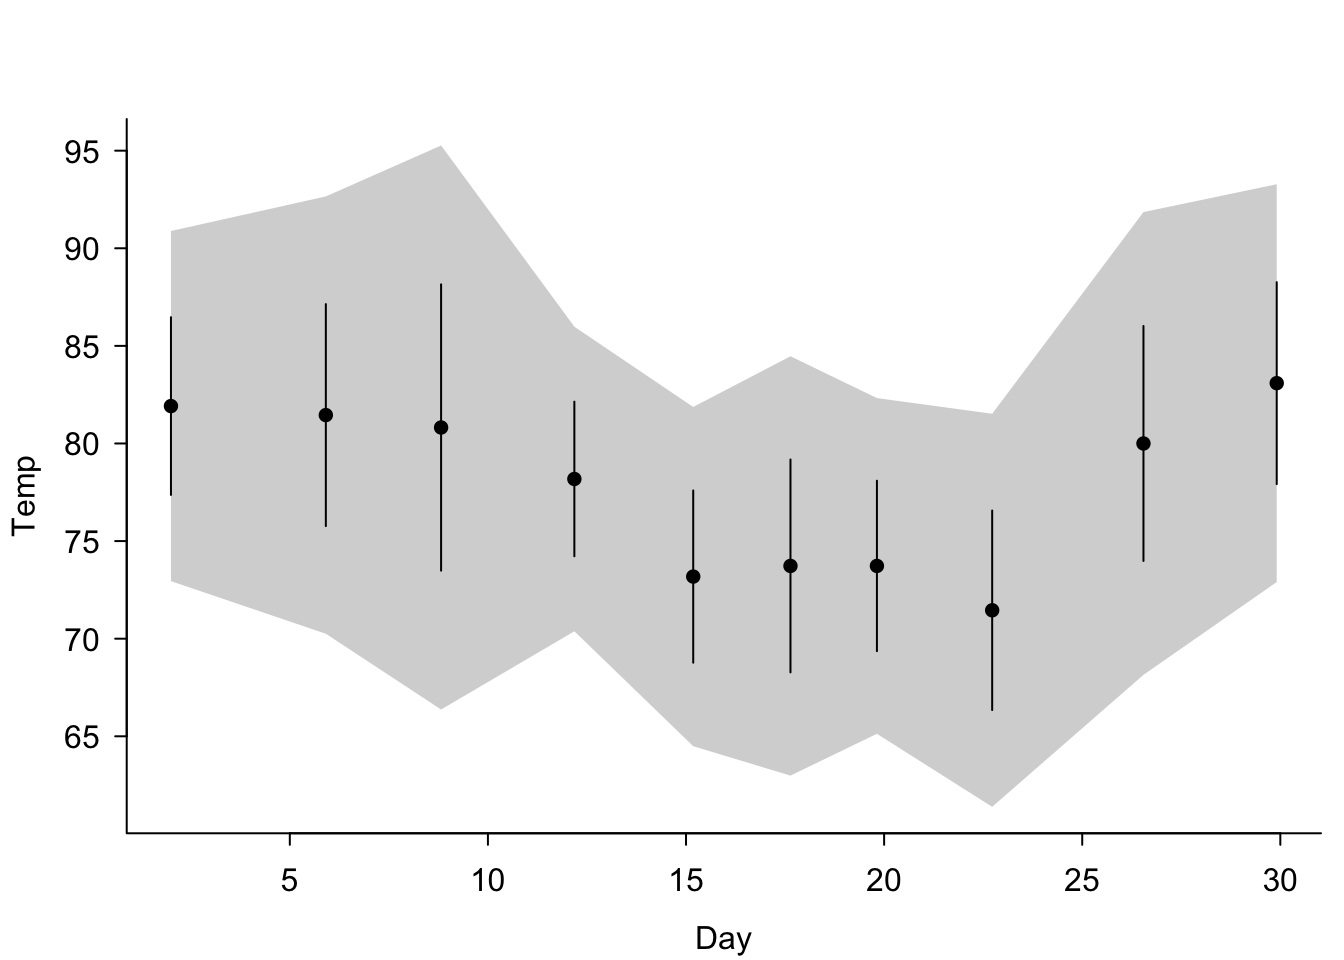
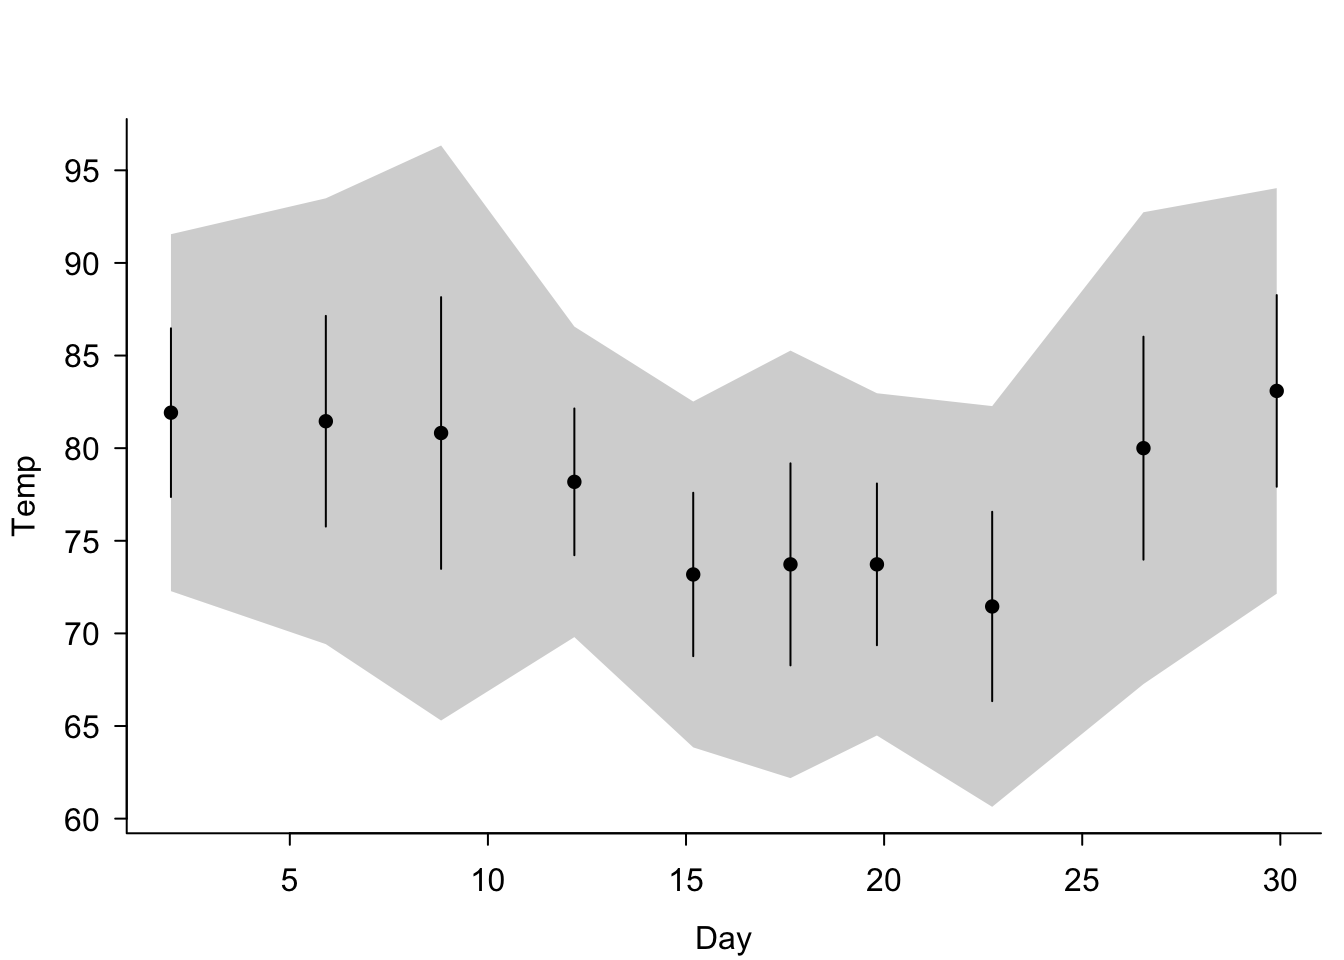
ensure data input consitency with dbreg

diff --git a/docs/man/dbbinsreg.html b/docs/man/dbbinsreg.html
@@ -371,6 +371,8 @@ window.Quarto = {
 <h3 class="anchored" data-anchor-id="usage">Usage</h3>
 <pre><code class="language-R">dbbinsreg(
   fml,
+  conn = NULL,
+  table = NULL,
   data = NULL,
   path = NULL,
   points = c(0, 0),
@@ -385,7 +387,6 @@ window.Quarto = {
   level = 0.95,
   nsims = 500,
   strategy = "auto",
-  conn = NULL,
   plot = TRUE,
   verbose = getOption("dbreg.verbose", FALSE),
   dots = NULL
@@ -419,18 +420,29 @@ window.Quarto = {
 </tr>
 <tr>
 <td style="white-space: collapse; font-family: monospace; vertical-align: top">
-<code id="data">data</code>
+<code id="conn">conn</code>
 </td>
 <td>
-A data source: R dataframe, database table name (character), or a lazy table object (e.g., from <code>dplyr::tbl()</code>) pointing to a database table.
+Database connection, e.g.&nbsp;created with <code>dbConnect</code>. Can be either persistent (disk-backed) or ephemeral (in-memory). If no connection is provided, then an ephemeral <code>duckdb</code> connection will be created automatically and closed before the function exits. Note that a persistent (disk-backed) database connection is required for larger-than-RAM datasets in order to take advantage of out-of-core functionality like streaming (where supported).
 </td>
 </tr>
 <tr>
 <td style="white-space: collapse; font-family: monospace; vertical-align: top">
-<code id="path">path</code>
+<code id="table">table</code>, <code id="data">data</code>, <code id="path">path</code>
 </td>
 <td>
-Character string giving a path to data file(s) on disk. This is an alias for <code>data</code> for consistency with <code>dbreg</code>. Can include file globbing for Hive-partitioned datasets, e.g. <code>“read_parquet(’mydata/**/*.parquet’)“</code>.
+<p>Mutually exclusive arguments for specifying the data table (object) to be queried. In order of precedence:</p>
+<ul>
+<li>
+<p><code>table</code>: Character string giving the name of the data table in an existing (open) database connection.</p>
+</li>
+<li>
+<p><code>data</code>: R dataframe that can be copied over to <code>conn</code> as a temporary table for querying via the DuckDB query engine. Ignored if <code>table</code> is provided.</p>
+</li>
+<li>
+<p><code>path</code>: Character string giving a path to the data file(s) on disk, which will be read into <code>conn</code>. Internally, this string is passed to the <code>FROM</code> query statement, so could (should) include file globbing for Hive-partitioned datasets, e.g.&nbsp;<code>“mydata/**/.*parquet”</code>. For more precision, however, it is recommended to pass the desired database reader function as part of this string, e.g.&nbsp;<code>“read_parquet(’mydata/**/*.parquet’)“</code> for DuckDB; note the use of single quotes. Ignored if either <code>table</code> or <code>data</code> is provided.</p>
+</li>
+</ul>
 </td>
 </tr>
 <tr>
@@ -527,14 +539,6 @@ Number of simulation draws for confidence band computation. Default is 500. Only
 </td>
 <td>
 Acceleration strategy passed to <code>dbreg</code> when smoothness is zero. Options are <code>“auto”</code> (default), <code>“compress”</code>, or <code>“scan”</code>. This parameter is ignored when <code>s</code> (smoothness parameter in <code>points</code> or <code>lines</code>) &gt; 0. See <code>dbreg</code> for details.
-</td>
-</tr>
-<tr>
-<td style="white-space: collapse; font-family: monospace; vertical-align: top">
-<code id="conn">conn</code>
-</td>
-<td>
-Database connection. If <code>NULL</code> (default), an ephemeral DuckDB connection will be created.
 </td>
 </tr>
 <tr>
@@ -981,16 +985,16 @@ N = 111 | level = 95%
 
 $points:
            x bin      fit       se      lwr      upr   cb_lwr   cb_upr
-1   2.000000   1 81.91667 2.322756 77.36415 86.46919 72.89523 90.93810
-2   5.909091   2 81.45455 2.901243 75.76821 87.14088 70.18630 92.72279
-3   8.818182   3 80.81818 3.741960 73.48408 88.15229 66.28465 95.35171
-4  12.181818   4 78.18182 2.020872 74.22098 82.14265 70.33288 86.03076
-5  15.181818   5 73.18182 2.250524 68.77087 77.59276 64.44093 81.92271
-6  17.636364   6 73.72727 2.782110 68.27444 79.18011 62.92174 84.53281
-7  19.818182   7 73.72727 2.227290 69.36186 78.09268 65.07662 82.37792
-8  22.727273   8 71.45455 2.607774 66.34340 76.56569 61.32612 81.58297
-9  26.545455   9 80.00000 3.070484 73.98196 86.01804 68.07444 91.92556
-10 29.909091  10 83.09091 2.639247 77.91808 88.26374 72.84024 93.34158
+1   2.000000   1 81.91667 2.322756 77.36415 86.46919 72.34536 91.48797
+2   5.909091   2 81.45455 2.901243 75.76821 87.14088 69.49949 93.40960
+3   8.818182   3 80.81818 3.741960 73.48408 88.15229 65.39881 96.23755
+4  12.181818   4 78.18182 2.020872 74.22098 82.14265 69.85448 86.50916
+5  15.181818   5 73.18182 2.250524 68.77087 77.59276 63.90816 82.45548
+6  17.636364   6 73.72727 2.782110 68.27444 79.18011 62.26313 85.19142
+7  19.818182   7 73.72727 2.227290 69.36186 78.09268 64.54935 82.90519
+8  22.727273   8 71.45455 2.607774 66.34340 76.56569 60.70878 82.20031
+9  26.545455   9 80.00000 3.070484 73.98196 86.01804 67.34756 92.65244
+10 29.909091  10 83.09091 2.639247 77.91808 88.26374 72.21545 93.96637
 
 $bins:
    id left right

diff --git a/docs/man/plot.dbbinsreg.html b/docs/man/plot.dbbinsreg.html
@@ -701,16 +701,16 @@ N = 111 | level = 95%
 
 $points:
            x bin      fit       se      lwr      upr   cb_lwr   cb_upr
-1   2.000000   1 81.91667 2.322756 77.36415 86.46919 72.94897 90.88436
-2   5.909091   2 81.45455 2.901243 75.76821 87.14088 70.25343 92.65566
-3   8.818182   3 80.81818 3.741960 73.48408 88.15229 66.37123 95.26514
-4  12.181818   4 78.18182 2.020872 74.22098 82.14265 70.37964 85.98400
-5  15.181818   5 73.18182 2.250524 68.77087 77.59276 64.49300 81.87064
-6  17.636364   6 73.72727 2.782110 68.27444 79.18011 62.98611 84.46844
-7  19.818182   7 73.72727 2.227290 69.36186 78.09268 65.12815 82.32639
-8  22.727273   8 71.45455 2.607774 66.34340 76.56569 61.38645 81.52264
-9  26.545455   9 80.00000 3.070484 73.98196 86.01804 68.14548 91.85452
-10 29.909091  10 83.09091 2.639247 77.91808 88.26374 72.90131 93.28051
+1   2.000000   1 81.91667 2.322756 77.36415 86.46919 72.28183 91.55150
+2   5.909091   2 81.45455 2.901243 75.76821 87.14088 69.42014 93.48895
+3   8.818182   3 80.81818 3.741960 73.48408 88.15229 65.29647 96.33989
+4  12.181818   4 78.18182 2.020872 74.22098 82.14265 69.79921 86.56443
+5  15.181818   5 73.18182 2.250524 68.77087 77.59276 63.84661 82.51703
+6  17.636364   6 73.72727 2.782110 68.27444 79.18011 62.18704 85.26751
+7  19.818182   7 73.72727 2.227290 69.36186 78.09268 64.48844 82.96611
+8  22.727273   8 71.45455 2.607774 66.34340 76.56569 60.63746 82.27163
+9  26.545455   9 80.00000 3.070484 73.98196 86.01804 67.26358 92.73642
+10 29.909091  10 83.09091 2.639247 77.91808 88.26374 72.14327 94.03855
 
 $bins:
    id left right
